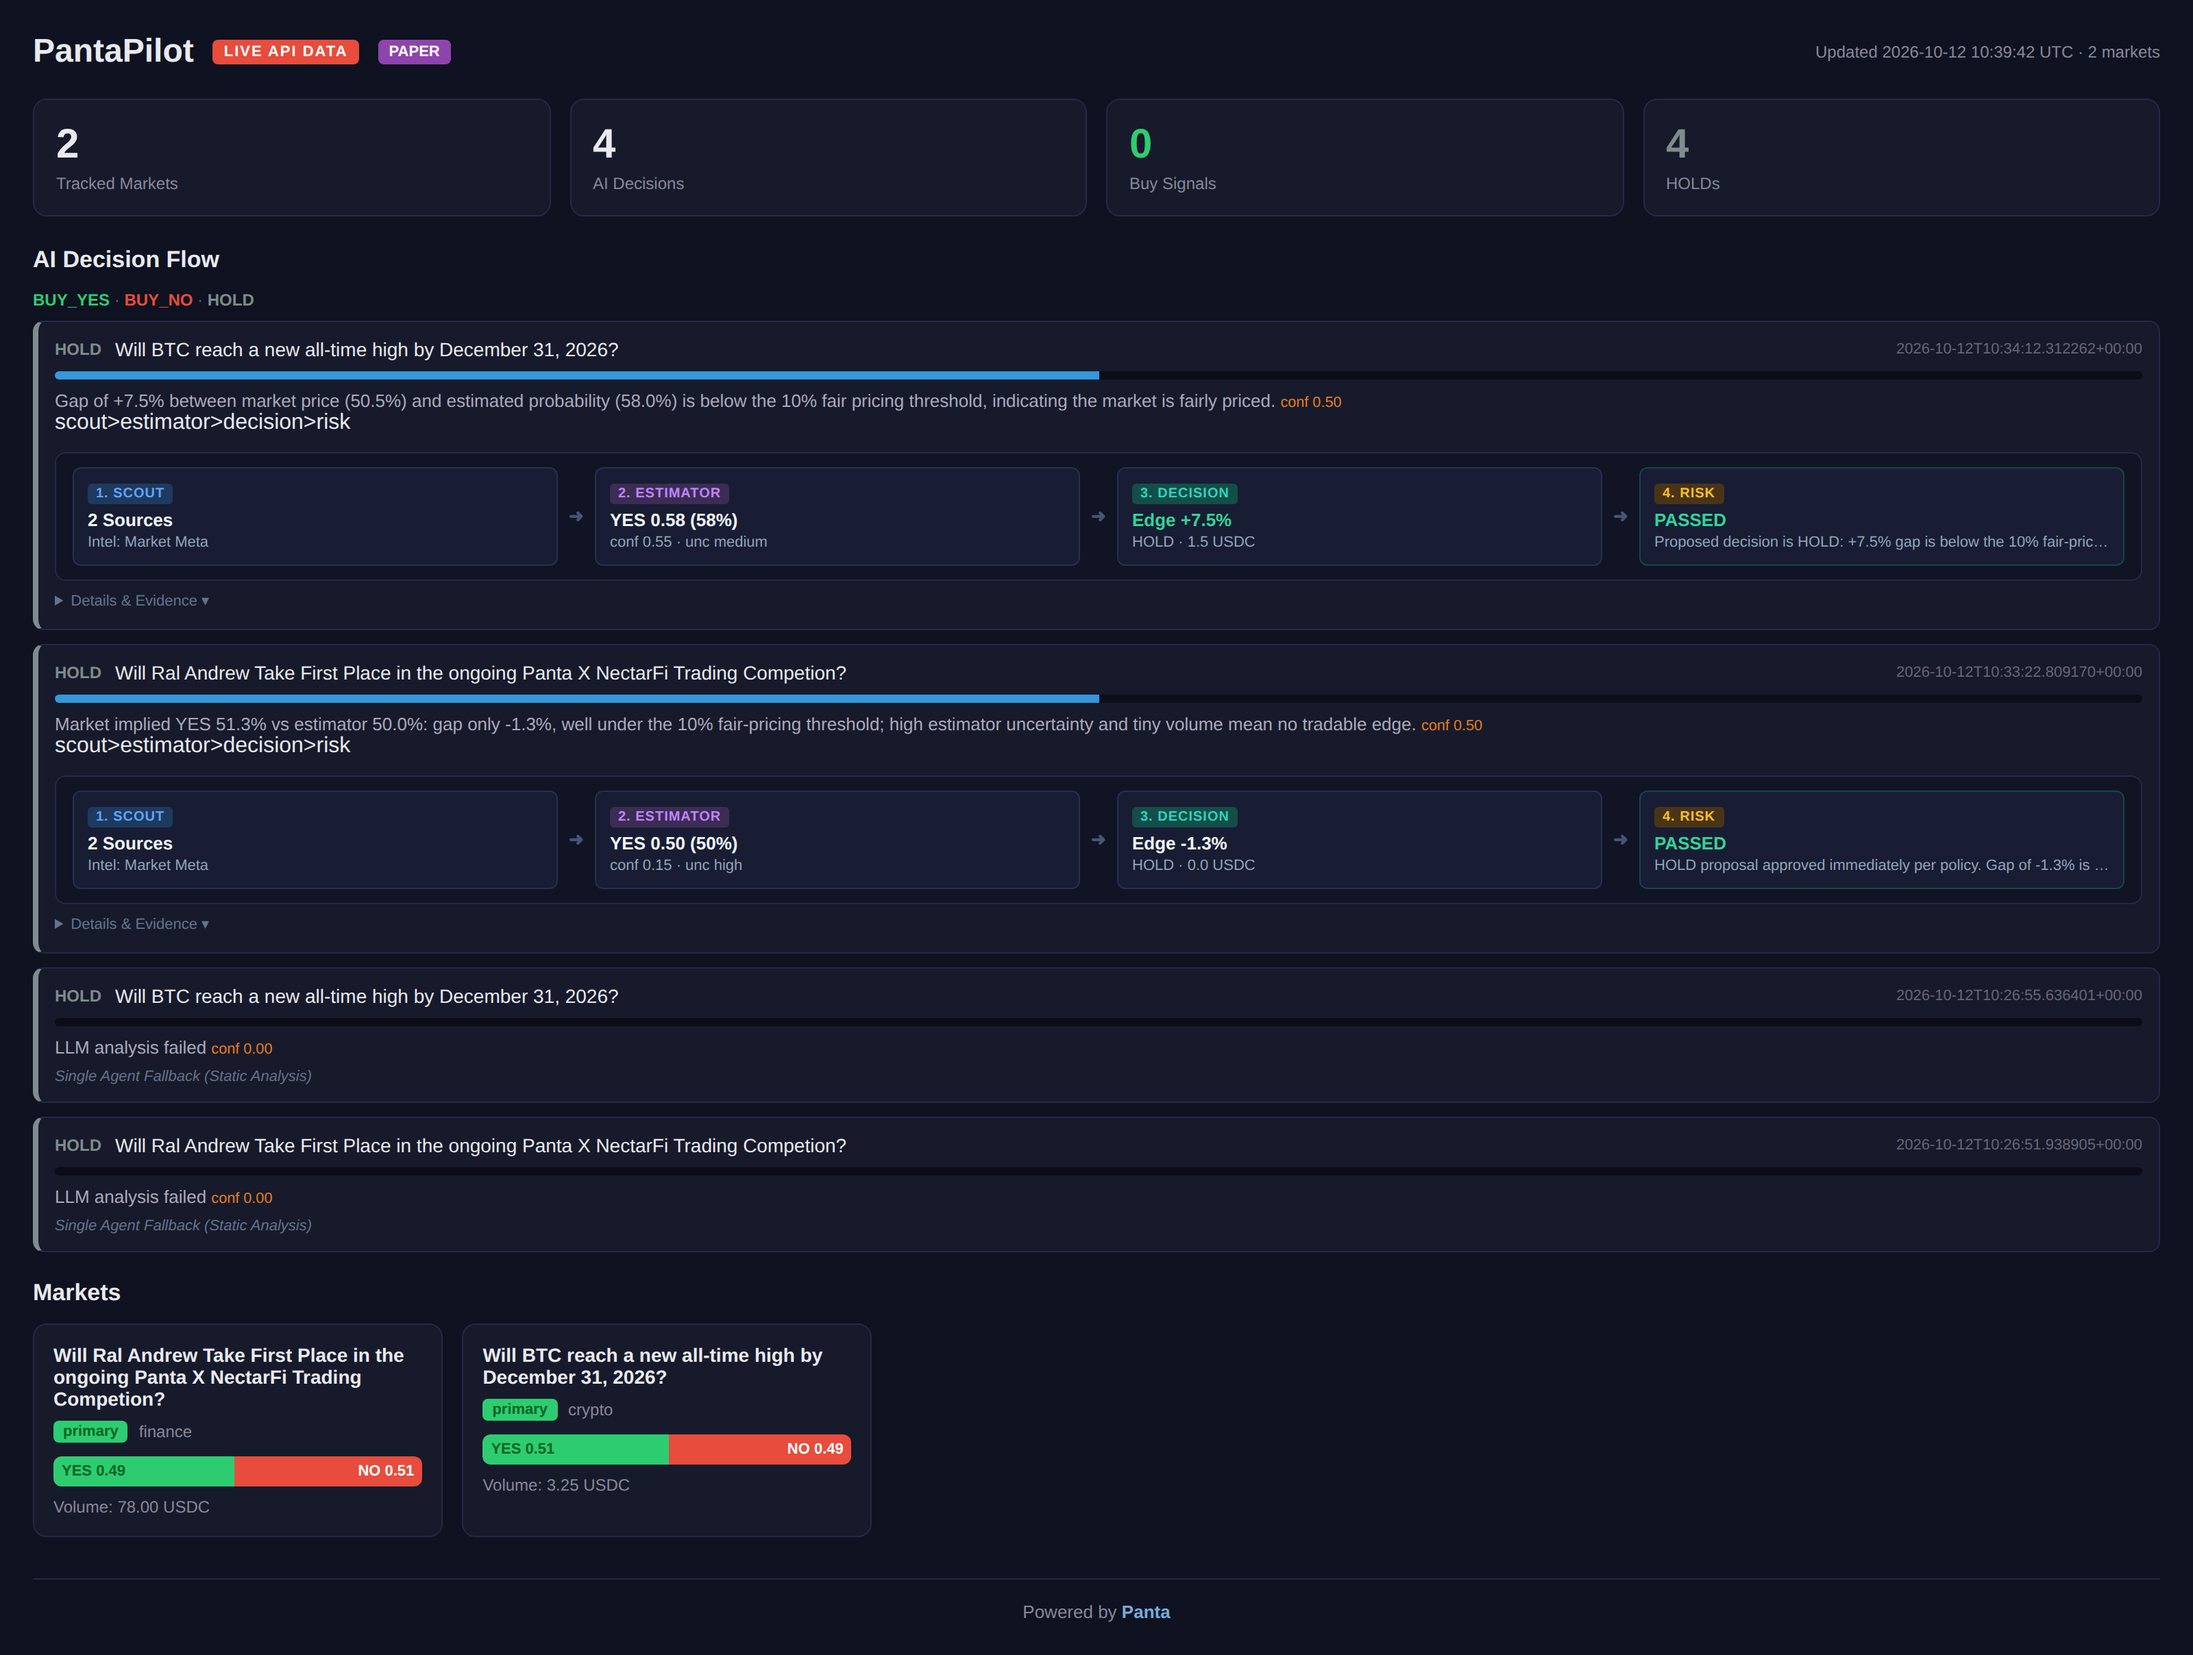
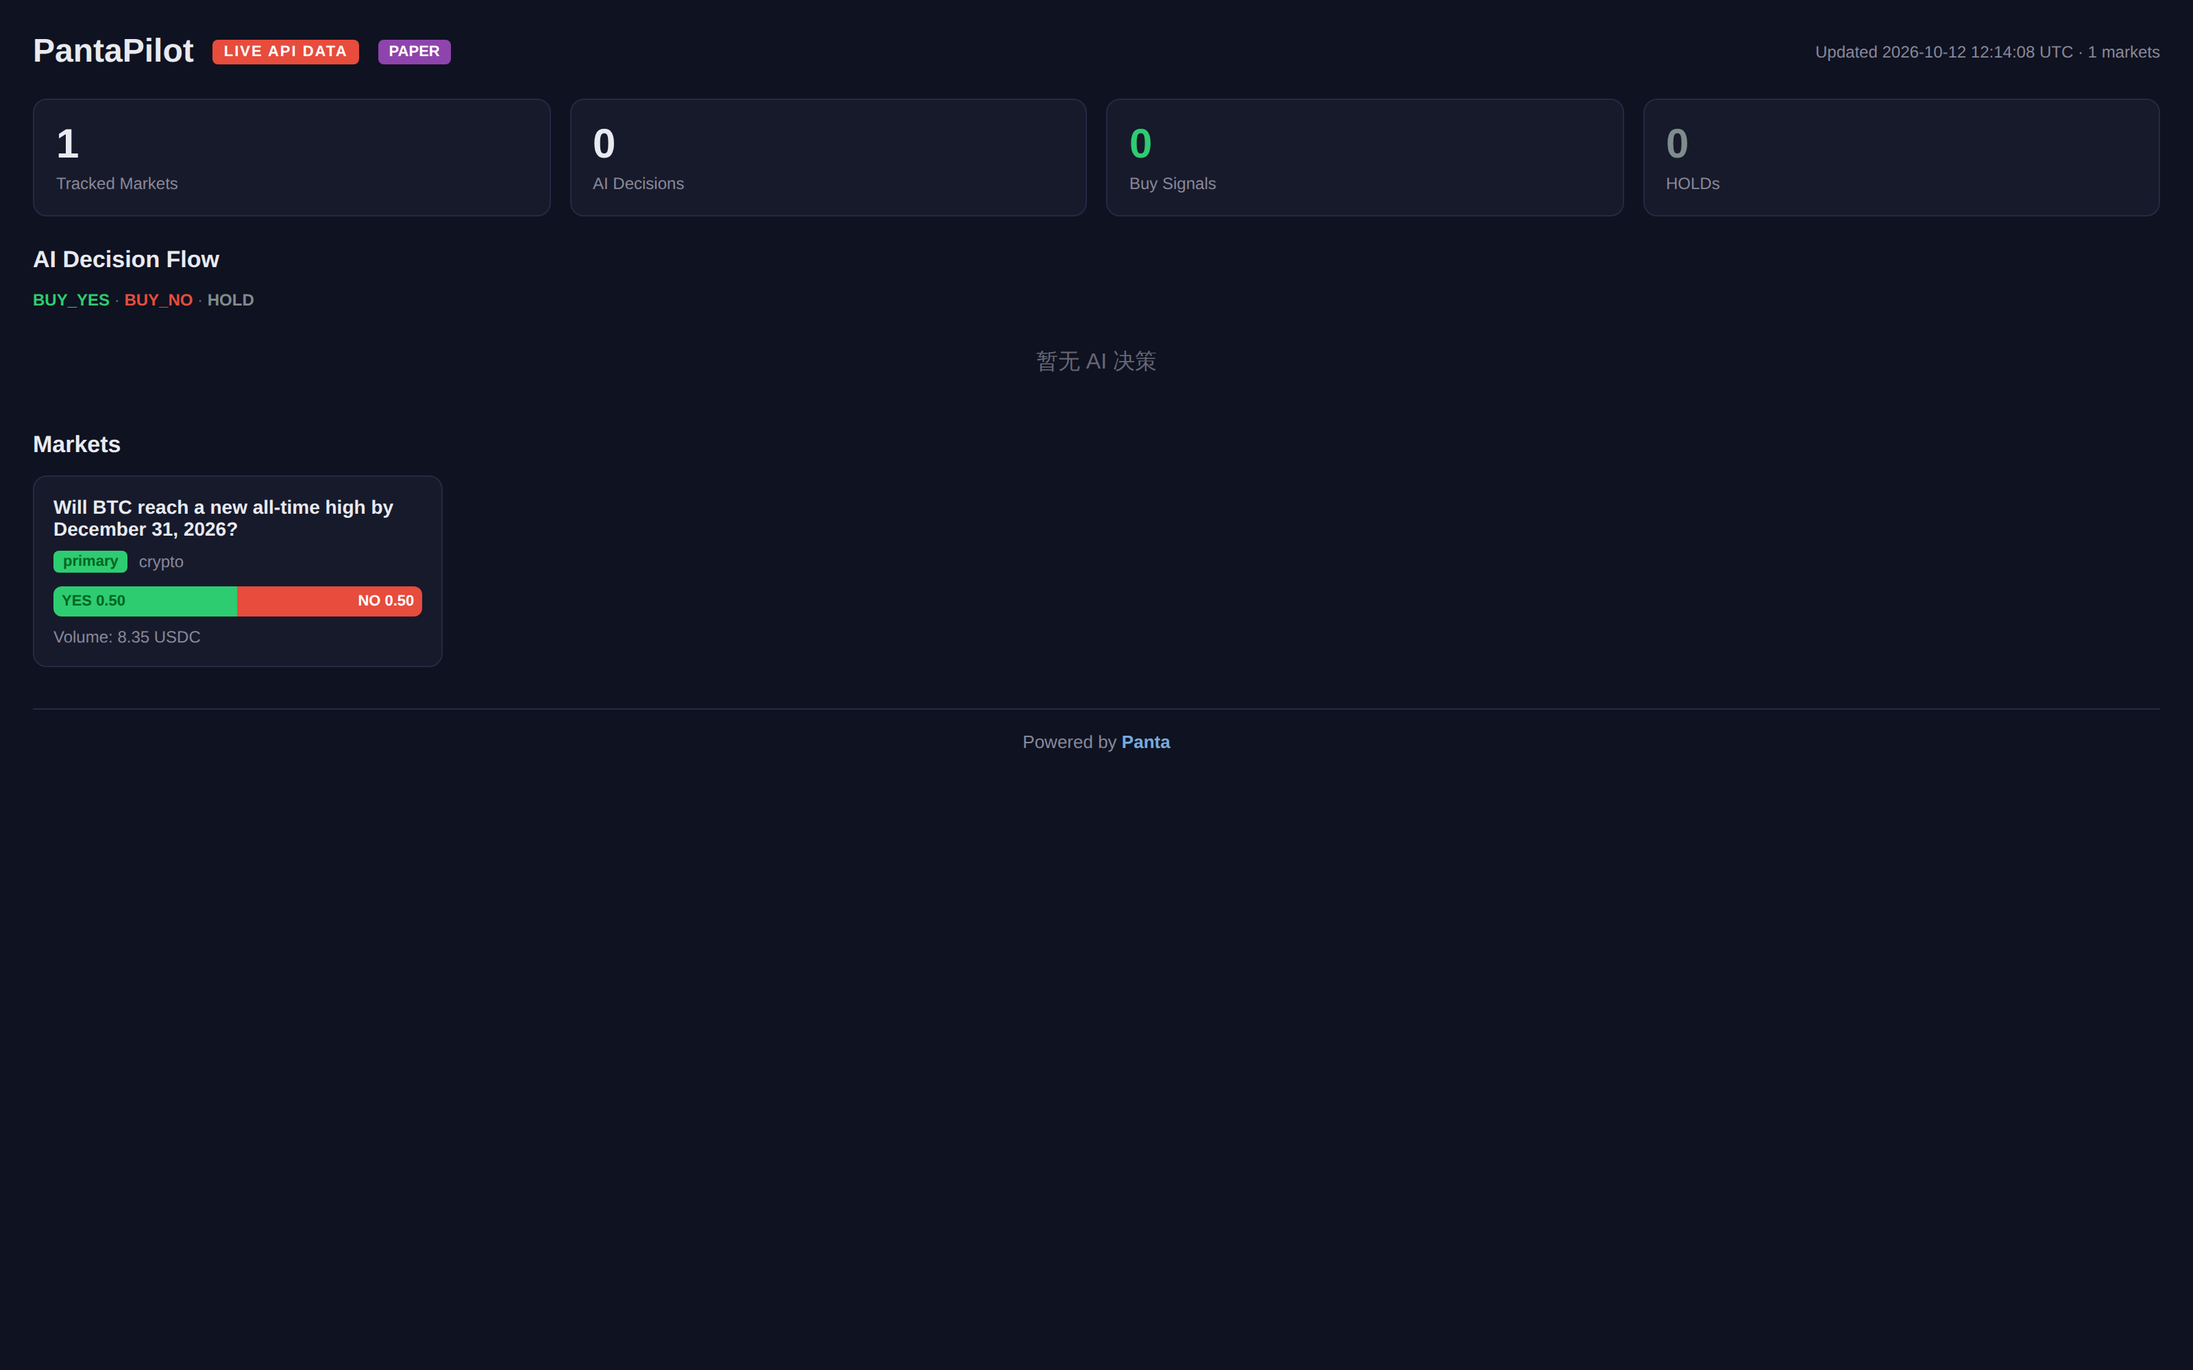
docs: refresh venue figures for the recording take
The venue moved again while we prepared to record. Across a single day the
tradeable count went 1 -> 2 -> 1 (the Ral Andrew market was retired), Panta
renamed primary->open and then back, and the secondary count swung from 97 to 7.
As of 20:13 there is 1 tradeable market carrying 8.35 USDC.

Every figure we had written down was wrong, which is worth stating rather than
quietly patching: any number in these docs ages within hours. The demo script now
opens its facts table with that warning, gives a one-line command to re-read the
live values immediately before recording, and tells the presenter never to promise
a market count on camera.

Also folds the 8.35 USDC liquidity figure into the must-not-claim list, and notes
against the 0.98 estimator finding that the model has since changed (the
architectural gap it exposed has not).

Log reset for the take; the previous run is in logs/pre-recording-20261012-201344.jsonl.

diff --git a/demo_capture/DEMO_VIDEO_SCRIPT.md b/demo_capture/DEMO_VIDEO_SCRIPT.md
@@ -44,33 +44,42 @@ Hide bookmarks and the tab strip if your recorder allows; no other tabs, no emai
 - **Right 40%:** dashboard tab.
 - **Full screen / hide the desktop.** Nothing on screen should suggest a laptop in a bedroom.
 
-### 0.4 Facts you may state on camera (verified 2026-10-12 afternoon)
+### 0.4 Facts you may state on camera (verified 2026-10-12 20:13 — RE-CHECK BEFORE RECORDING)
 
-| Fact | Verified value |
+**The venue changes hourly. Every number below was different two hours ago.** Run
+`python -c "from panta import PantaClient; [print(m['title'], m['yesPrice'], m['volumeUsdc']) for m in PantaClient().primary_markets()]"`
+immediately before you record and read what is actually on screen. Do not memorise these.
+
+| Fact | Value at 20:13 |
 |---|---|
-| Tradeable markets on Panta | **2** (`open`). Was 1 in the morning — the venue added one. |
-| Market 1 | *Will BTC reach a new all-time high by December 31, 2026?* — YES **0.5054**, vol **3.25 USDC** |
-| Market 2 | *Will Ral Andrew take first place in the ongoing Panta X …* — YES **0.5323**, vol **20.00 USDC** |
-| Total markets on venue | 99 (2 `open`, 97 `secondary_active`) |
-| A full decision round | **~45–65 seconds** (Estimator alone measured at 46s once) |
+| Tradeable markets on Panta | **1** (`primary`). Was 2 at 18:00 — the venue retired one. |
+| That market | *Will BTC reach a new all-time high by December 31, 2026?* |
+| YES price | **0.4972** (49.7%) |
+| Volume | **8.35 USDC** |
+| Total markets on venue | 99 (1 primary, 7 secondary, 92 resolved) |
+| A full decision round | **~40–65 seconds** per market |
 | Mode | `DRY_RUN=true` → PAPER. No funds, no signature, no broadcast. |
 
-Venue counts move and Panta renames status values (`primary`→`open` mid-day). Re-check before
-recording and quote the date alongside any number. Do not promise a market count on camera.
+Panta renames status values without notice — during 2026-10-12 alone `primary` became `open` and
+back again, and the secondary count swung from 97 to 7. `panta.py` normalises all of it, so the
+product is unaffected; only your narration is at risk. **Never promise a market count on camera.**
+
+If asked how many markets are tradeable, the honest and much stronger answer is: *"One right now,
+and it moves — which is exactly why the desk says HOLD most of the time."*
 
 ### 0.5 Facts you must NOT state
 
 - ❌ Any profit, ROI, win-rate, or "beats the market" claim. There is none.
-- ❌ Any claim of deep liquidity. There is 3.25 USDC of volume.
+- ❌ Any claim of deep liquidity. There are **8.35 USDC** of volume today — single digits.
 - ❌ Any claim that a trade was executed. Nothing has ever been broadcast.
 - ❌ Any suggestion that the dashboard numbers are historical performance. They are decisions, not P&L.
 - ❌ **Any claim that the Estimator is reliable, or that the four roles "verify" the estimate.**
   Measured on this exact market: the Estimator returned **0.51, 0.55, then 0.98** across three runs
   — and the more extreme the estimate, the *higher* its self-reported confidence (0.98 @ confidence
   0.95, uncertainty "low"). The 0.98 run cleared the 15% edge bar and produced a `BUY YES`, which
-  then failed at the API (`INVALID_MARKET_PARAMS` — the market has null price and null volume, so it
-  is not actually tradeable). Risk did not catch it, because Risk checks caps and liquidity, not the
-  estimate itself.
+  then failed at the API (`INVALID_MARKET_PARAMS` — at the time the market had null price and null
+  volume). Risk did not catch it, because Risk checks caps and liquidity, not the estimate itself.
+  Note the model has since changed (see README); the architectural gap remains.
 
   If a judge asks whether the agents are reliable, say this plainly. The honest answer is stronger
   than a vague one: the pipeline verifies *process* — every role ran and every step is auditable —

diff --git a/SUBMISSION.md b/SUBMISSION.md
@@ -93,15 +93,15 @@ every agent step, every decision. A captured sample run ships in the repo at
 
 **What the live venue currently looks like (sampled 2026-10-12).** The venue is small and its
 status vocabulary moves, so treat these as a snapshot rather than a constant. Of 99 markets
-returned by `/markets/` on the afternoon of 2026-10-12: **97 `secondary_active`, 2 `open`.**
-Only the `open` markets are tradeable, and the ones we saw carried thin volume — 3.25 USDC and
-20.00 USDC. A live scan therefore analyzes a very small opportunity set, and the Decision agent's
-disciplined answer is often `HOLD`.
+returned by `/markets/` on the evening of 2026-10-12: **92 `resolved`, 7 `secondary`, and exactly
+1 `primary` (tradeable).** That single market carried **8.35 USDC** of volume. A live scan therefore
+analyzes a very small opportunity set, and the Decision agent's disciplined answer is often `HOLD`.
 
-Note that Panta renamed its status values during the day (`primary`→`open`, `resolved`→absent).
-`panta.py` already normalises these (`_PRIMARY_ALIASES` accepts `primary`/`open`/`trading`, and
-deliberately keeps `secondary_active` out of primary), so the scanner keeps working across the
-rename — but any figure quoted here ages quickly, which is why we give the date.
+The volatility of these figures is itself part of the story. Across one day the tradeable count went
+1 → 2 → 1, and Panta renamed its status values (`primary`→`open` and back). `panta.py` normalises all
+of it (`_PRIMARY_ALIASES` accepts `primary`/`open`/`trading`, and deliberately keeps `secondary` out of
+primary), so the scanner kept working through every change — but any count quoted here ages within
+hours, which is why we date it and tell you to re-check.
 
 **We tried to backtest it, and we are reporting the null result.** `backtest_real.py`
 pulls *real* settled markets (not hand-written samples) and evaluates the strategy's

diff --git a/SUBMISSION_CHECKLIST.md b/SUBMISSION_CHECKLIST.md
@@ -149,12 +149,13 @@ python -m unittest test_agents.py   # 14 offline tests, no network
 
 ## 8. Known limitations to state honestly if asked
 
-- **Venue liquidity is the binding constraint.** As of 2026-10-12 (afternoon): 99 markets,
-  2 tradeable (`open`), 97 `secondary_active`. The two tradeable ones carried 3.25 and 20.00 USDC
-  of volume. Settled markets we could measure resolved within 1.8% of 50/50. No claimable edge yet.
-- **Panta renames its status values without notice.** During 2026-10-12 alone, `primary` became
-  `open` and the `resolved` count disappeared. `panta.py` normalises these (`_PRIMARY_ALIASES`), so
-  the scanner survives the rename — but never quote a venue count without its date.
+- **Venue liquidity is the binding constraint.** As of 2026-10-12 (evening): 99 markets, exactly
+  1 tradeable (`primary`), 7 `secondary`, 92 resolved. The tradeable market carried 8.35 USDC of
+  volume. Settled markets we could measure resolved within 1.8% of 50/50. No claimable edge yet.
+- **Panta renames its status values and changes counts without notice.** During 2026-10-12 alone the
+  tradeable count went 1 → 2 → 1, `primary` became `open` and back, and the secondary count swung
+  from 97 to 7. `panta.py` normalises all of it (`_PRIMARY_ALIASES`), so the scanner survives — but
+  never quote a venue count without its date.
 - **The Estimator can be confidently wrong, and nothing downstream catches it.** Measured on one
   market and one model: 0.51, 0.55, then 0.98 across three runs, with self-reported confidence
   *rising* as the estimate got worse (0.98 at confidence 0.95, uncertainty "low"). The 0.98 run
